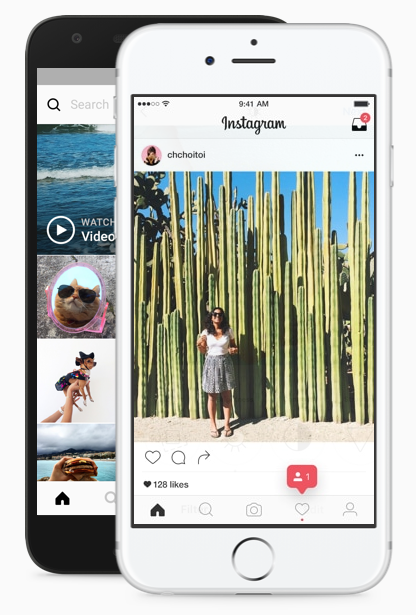
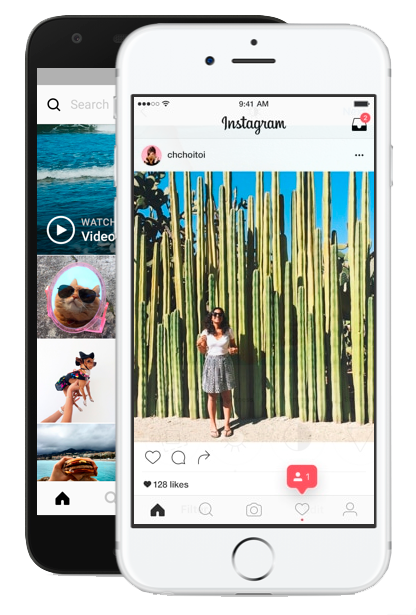
Ajustando dimensão tela e imagem de login.

diff --git a/style.css b/style.css
@@ -30,10 +30,12 @@ body {
     align-items: center;
     justify-content: center;
     width: 50%;
+    
 }
 
 .instagram-phone img {
     height: 50rem;
+        
 }
 
 .instagram-continue {
@@ -74,16 +76,18 @@ body {
 
 .profile-photo img {
     height: 8rem;
+    
 }
 
 .instagram-login {
     background-color: #0095f6;
     color: #ffffff;
     padding: 8px;
+    margin: 5px;
     border-radius: 4px;
 }
 
-.instagram-logout{
+.instagram-logout {
     color: #0095f6;
     margin-top: 1rem;
 }
